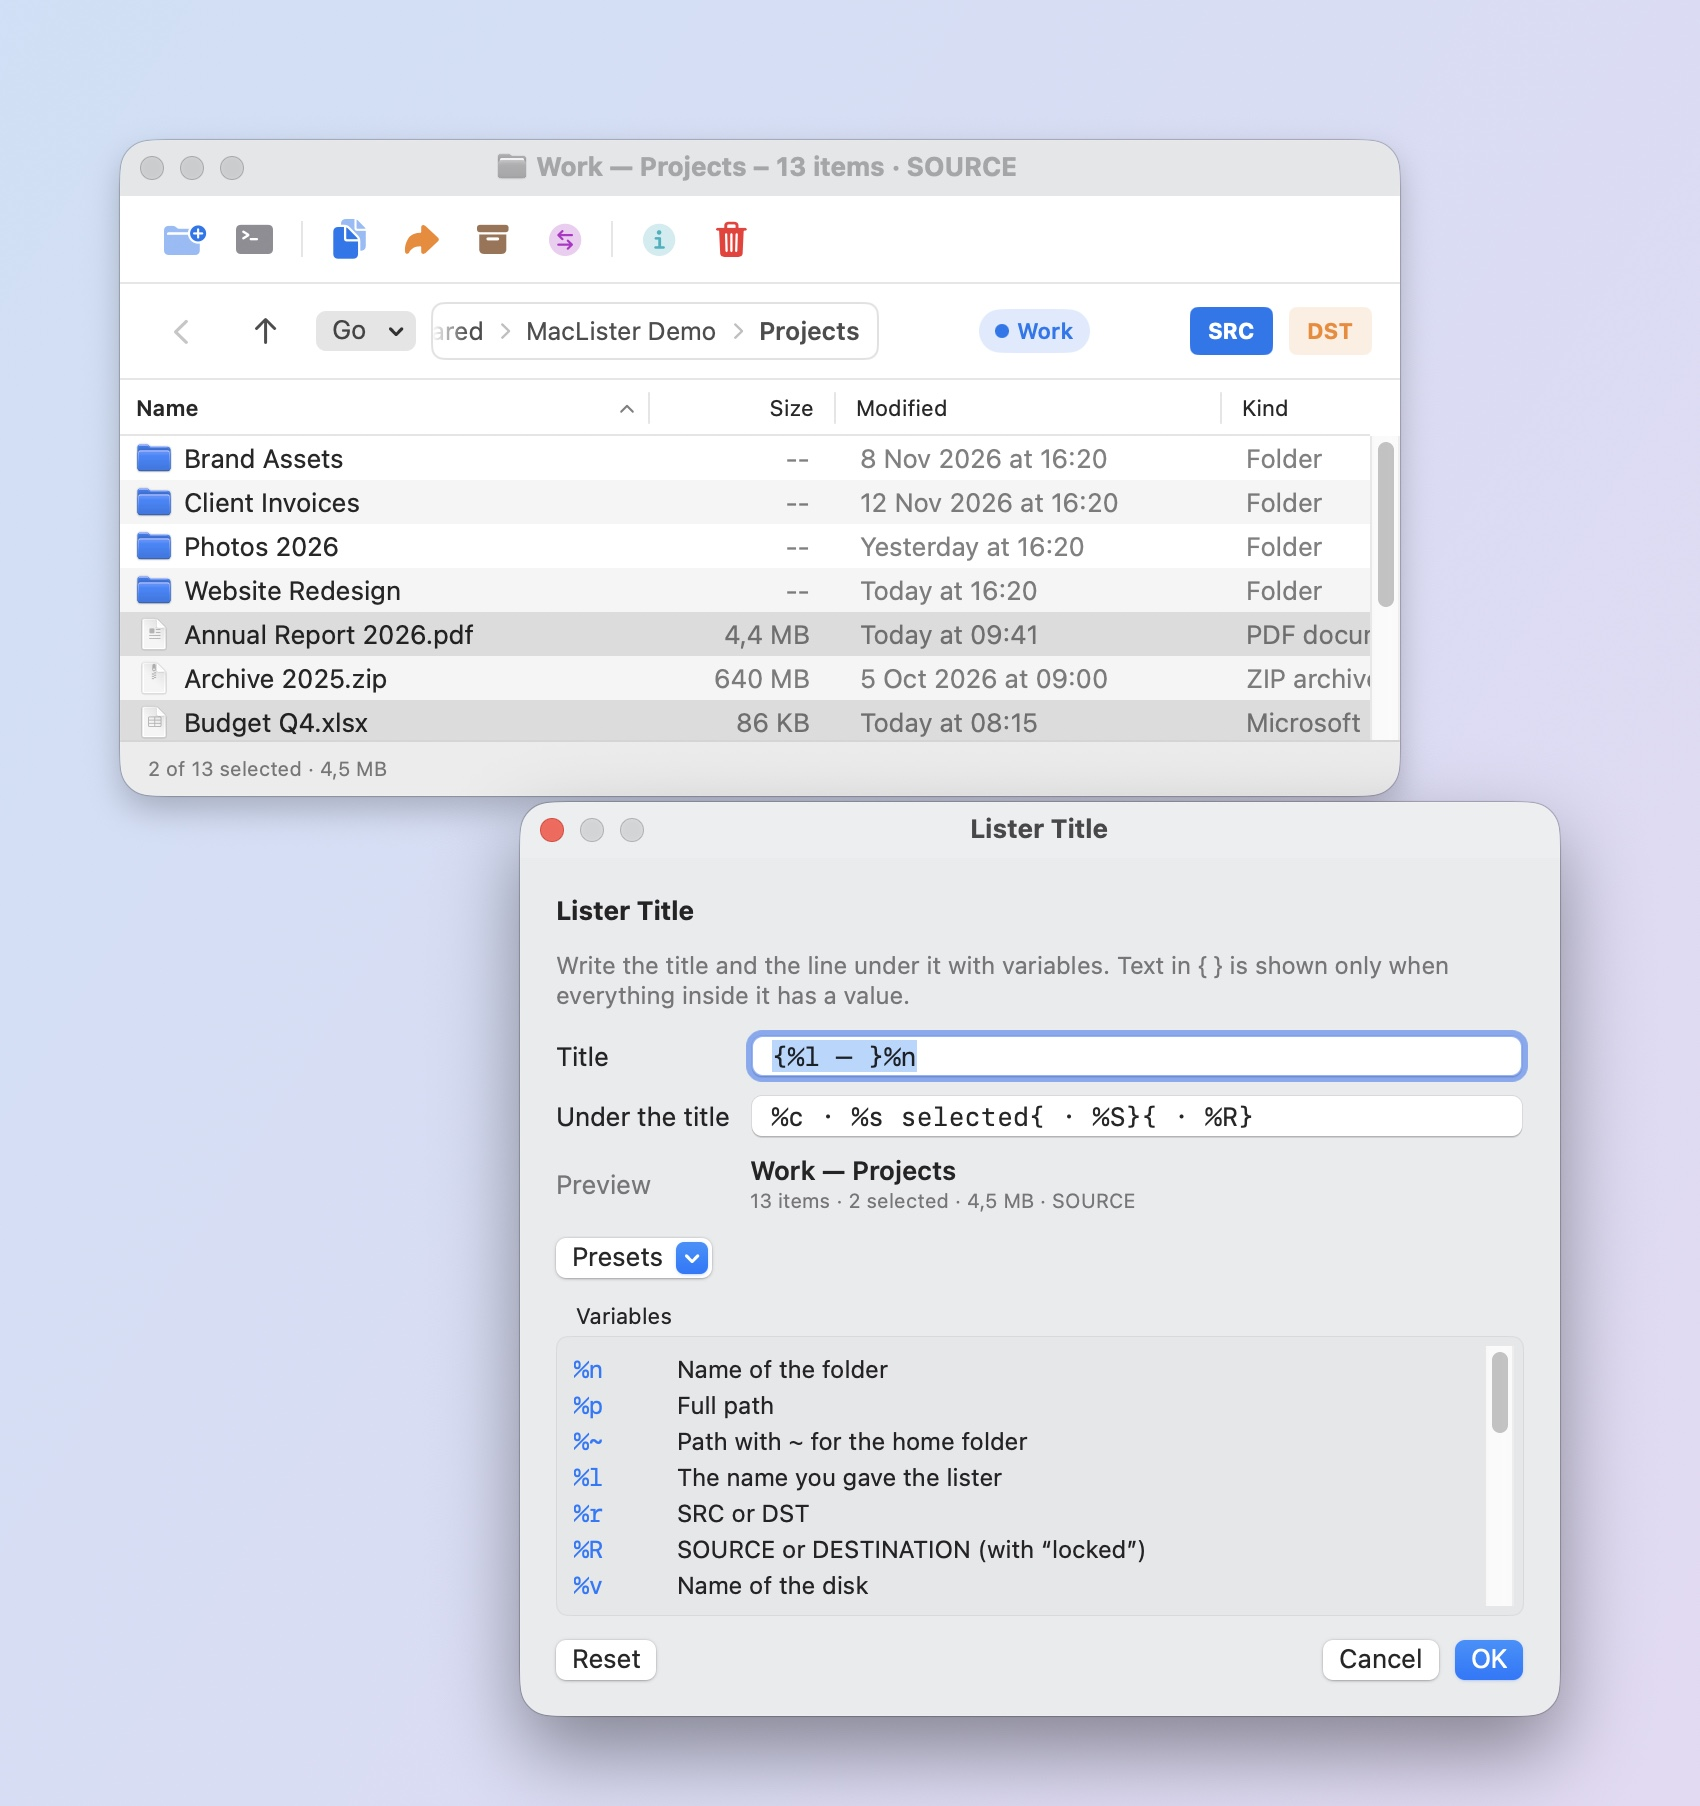
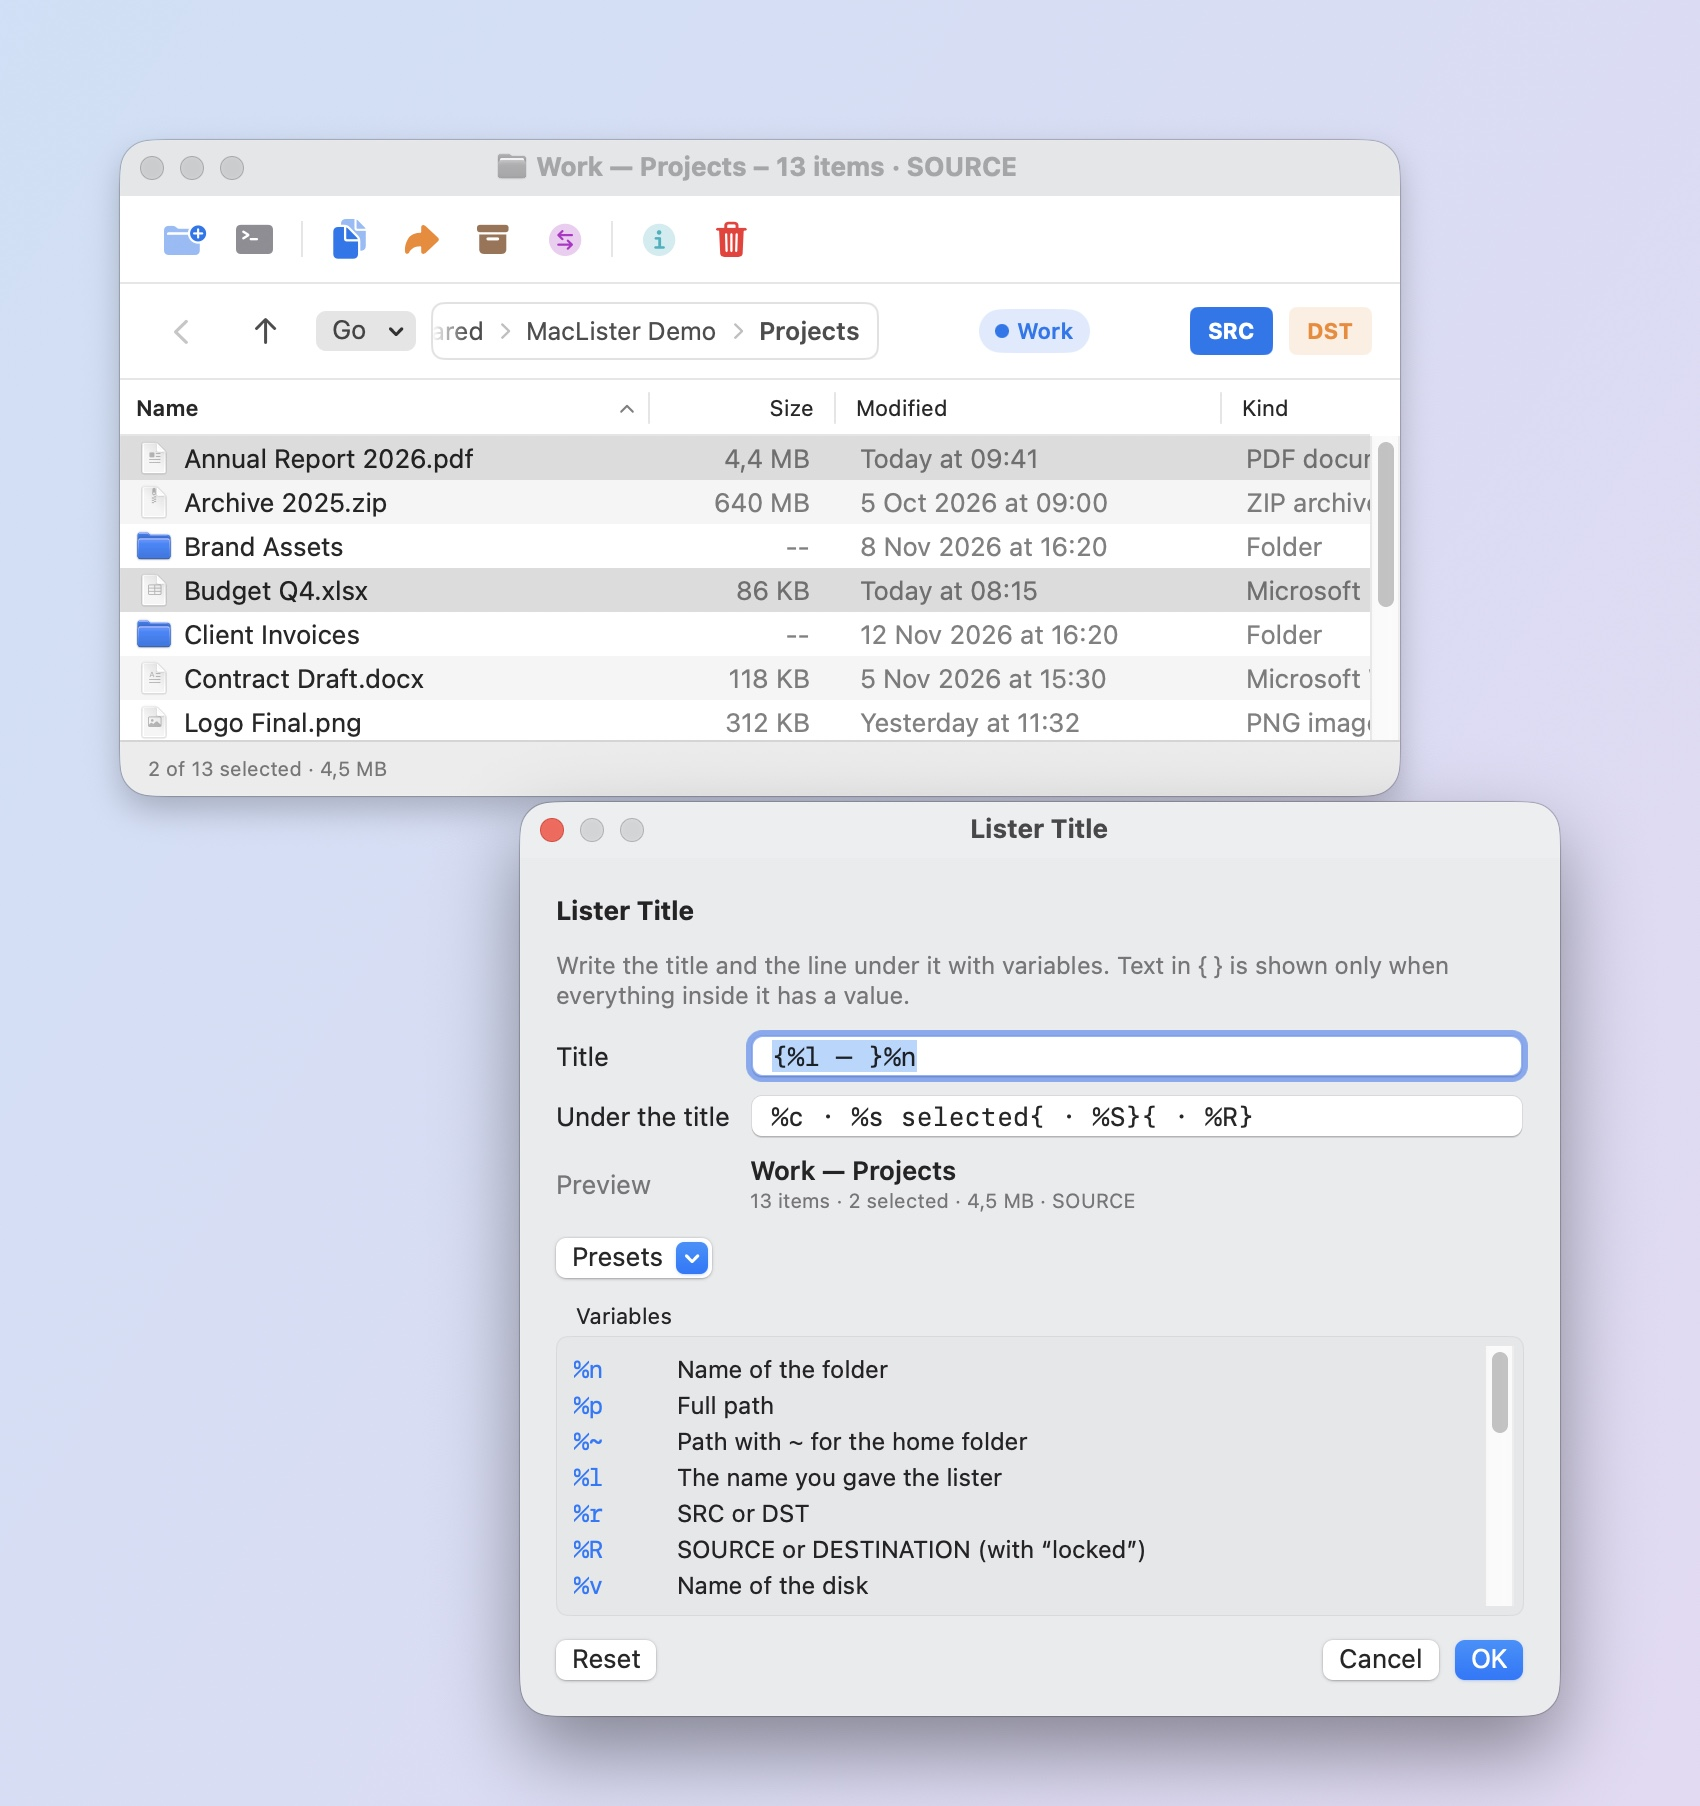
MacLister 1.4.1: sort folders and files together (optional)
- Settings → Listers → "Keep folders above files when sorting" (also in the column header menu); on by default
- With it off, folders and files are sorted together by the chosen column
- Refreshed screenshots; README in both languages

Changed region(s): [[0.0624, 0.2171, 0.8106, 0.4341]]

diff --git a/Sources/MacLister/SelfTestOperations.swift b/Sources/MacLister/SelfTestOperations.swift
@@ -180,6 +180,26 @@ enum SelfTestOperations {
             check(false, "app delegate reachable")
         }
 
+        // --- sorting folders and files together
+        let sortDir = root.appendingPathComponent("S")
+        for folder in ["b_dir", "d_dir"] { try? fm.createDirectory(at: sortDir.appendingPathComponent(folder), withIntermediateDirectories: true) }
+        write("a.txt", "x", in: sortDir); write("c.txt", "xxxxxx", in: sortDir); write("e.txt", "xx", in: sortDir)
+        let sortModel = ListerModel(url: sortDir)
+        func order(_ first: Bool, _ key: ListerModel.SortKey = .name, ascending: Bool = true) -> [String] {
+            ListerModel.sorted(sortModel.items, by: key, ascending: ascending, foldersFirst: first).map(\.name)
+        }
+        check(order(true) == ["b_dir", "d_dir", "a.txt", "c.txt", "e.txt"], "folders first (the default): \(order(true))")
+        check(order(false) == ["a.txt", "b_dir", "c.txt", "d_dir", "e.txt"], "folders and files sorted together by name: \(order(false))")
+        check(order(false, .name, ascending: false) == ["e.txt", "d_dir", "c.txt", "b_dir", "a.txt"], "and in reverse: \(order(false, .name, ascending: false))")
+        check(order(true, .size, ascending: false).prefix(2).allSatisfy { $0.hasSuffix("_dir") }, "folders stay on top when sorting by size")
+        check(order(false, .size, ascending: false).first == "c.txt", "mixed by size, the biggest file leads: \(order(false, .size, ascending: false))")
+        UserDefaults.standard.set(false, forKey: "foldersFirst")
+        sortModel.reload()
+        check(sortModel.items.map(\.name) == ["a.txt", "b_dir", "c.txt", "d_dir", "e.txt"], "the setting changes the lister's own order: \(sortModel.items.map(\.name))")
+        UserDefaults.standard.set(true, forKey: "foldersFirst")
+        sortModel.reload()
+        check(sortModel.items.map(\.name).prefix(2) == ["b_dir", "d_dir"], "and back")
+
         // --- title format
         var ctx = TitleFormat.Context()
         ctx.name = "Reports"; ctx.items = "11 items"; ctx.diskSummary = "340 GB free"; ctx.folders = "3"; ctx.files = "8"; ctx.selected = "2"

diff --git a/Sources/MacLister/SettingsWindow.swift b/Sources/MacLister/SettingsWindow.swift
@@ -89,6 +89,7 @@ private struct ListersSettingsView: View {
     @AppStorage("buttonBarPosition") private var position = ButtonBarPosition.abovePath.rawValue
     @AppStorage("showButtonLabels") private var labels = false
     @AppStorage("relativeDates") private var relativeDates = true
+    @AppStorage("foldersFirst") private var foldersFirst = true
     @AppStorage("dragSelectFromNames") private var dragSelect = true
     @State private var confirmReset = false
 
@@ -108,6 +109,8 @@ private struct ListersSettingsView: View {
                 }
             }
             Section("File list") {
+                Toggle("Keep folders above files when sorting", isOn: $foldersFirst)
+                    .onChange(of: foldersFirst) { _ in NotificationCenter.default.post(name: .columnsChanged, object: nil) }
                 Toggle("Show dates as Today and Yesterday", isOn: $relativeDates)
                     .onChange(of: relativeDates) { _ in NotificationCenter.default.post(name: .columnsChanged, object: nil) }
                 Toggle("Select by dragging from file names", isOn: $dragSelect)

diff --git a/Sources/MacLister/ListerViewController.swift b/Sources/MacLister/ListerViewController.swift
@@ -1303,6 +1303,10 @@ extension ListerViewController {
             menu.addItem(item)
         }
         menu.addItem(.separator())
+        let folders = NSMenuItem(title: tr("Folders Above Files"), action: #selector(toggleFoldersFirst), keyEquivalent: "")
+        folders.target = self
+        folders.state = Settings.foldersFirst ? .on : .off
+        menu.addItem(folders)
         let relative = NSMenuItem(title: tr("Relative Dates (Today, Yesterday)"), action: #selector(toggleRelativeDates), keyEquivalent: "")
         relative.target = self
         relative.state = Settings.relativeDates ? .on : .off
@@ -1318,6 +1322,11 @@ extension ListerViewController {
     }
 
     @objc fileprivate func resetColumns() { ColumnSettings.reset() }
+
+    @objc fileprivate func toggleFoldersFirst() {
+        Settings.foldersFirst.toggle()
+        NotificationCenter.default.post(name: .columnsChanged, object: nil)
+    }
 
     @objc fileprivate func toggleRelativeDates() {
         Settings.relativeDates.toggle()

diff --git a/Sources/MacLister/ListerModel.swift b/Sources/MacLister/ListerModel.swift
@@ -448,10 +448,10 @@ final class ListerModel: ObservableObject {
         return listed.filter { $0.isNavigable || NamePattern.matches($0.name, patterns: patterns) }
     }
 
-    /// Folders always come first; inside each group the chosen column decides.
-    static func sorted(_ items: [FileItem], by key: SortKey, ascending: Bool) -> [FileItem] {
+    /// Folders come first (unless the setting is off); inside each group, or among everything, the chosen column decides.
+    static func sorted(_ items: [FileItem], by key: SortKey, ascending: Bool, foldersFirst: Bool = Settings.foldersFirst) -> [FileItem] {
         items.sorted { a, b in
-            if a.isNavigable != b.isNavigable { return a.isNavigable }
+            if foldersFirst, a.isNavigable != b.isNavigable { return a.isNavigable }
             let order: ComparisonResult
             switch key {
             case .name:

diff --git a/Sources/MacLister/Settings.swift b/Sources/MacLister/Settings.swift
@@ -59,6 +59,7 @@ enum Settings {
             "dragSelectFromNames": true,
             "showDockIcon": true,
             "listersOnAllDesktops": false,
+            "foldersFirst": true,
         ])
     }
 
@@ -143,6 +144,12 @@ enum Settings {
     static var listersOnAllDesktops: Bool {
         get { defaults.bool(forKey: "listersOnAllDesktops") }
         set { defaults.set(newValue, forKey: "listersOnAllDesktops") }
+    }
+
+    /// Folders stay above the files whatever the sort column is. Off: folders and files are sorted together.
+    static var foldersFirst: Bool {
+        get { defaults.bool(forKey: "foldersFirst") }
+        set { defaults.set(newValue, forKey: "foldersFirst") }
     }
 
     static var showStatusItem: Bool { defaults.bool(forKey: "showStatusItem") }

diff --git a/README.pl.md b/README.pl.md
@@ -82,8 +82,8 @@ wykonaj `defaults delete com.example.MacLister` i usuń MacLister z dwóch list 
 - **Pasek ścieżki:** *Back*, *Parent*, menu **Go** (miejsca, woluminy, zakładki, ostatnie foldery), ścieżka jako
   klikalny **breadcrumb** (kliknij folder, żeby tam przejść; kliknij puste miejsce paska albo naciśnij **⌘L**, żeby
   wpisać ścieżkę, `~` działa) oraz znaczki **SRC** / **DST**.
-- **Lista plików:** ikona, nazwa, rozmiar, data modyfikacji. Kliknięcie nagłówka sortuje; foldery zawsze są
-  na początku. Dwuklik lub Return otwiera plik albo wchodzi do folderu. **Prawy przycisk na nagłówku kolumn**
+- **Lista plików:** ikona, nazwa, rozmiar, data modyfikacji. Kliknięcie nagłówka sortuje; foldery domyślnie są
+  na początku (wyłączysz to w **Ustawienia → Listery → Foldery nad plikami przy sortowaniu** albo w menu nagłówka kolumn). Dwuklik lub Return otwiera plik albo wchodzi do folderu. **Prawy przycisk na nagłówku kolumn**
   wybiera kolumny: Size, Modified, Created, Kind, Extension, Permissions, Tags, Comment.
 - **Lista odświeża się sama**, gdy pliki są dodawane, usuwane lub zmieniane na dysku (FSEvents), a podtytuł okna
   pokazuje wolne miejsce na woluminie.
@@ -184,7 +184,7 @@ W wielu laptopach klawisze F wymagają **fn**.
 - **Ogólne** — co otwiera lister (dwuklik, środkowy przycisk albo oba), wyśrodkowanie na kursorze, folder, który się
   otwiera, otwieranie zapisanego układu przy starcie, listery na wszystkich pulpitach, ikona w Docku, aplikacja
   terminala dla *Terminal Here*, język interfejsu.
-- **Listery** — położenie paska przycisków i etykiety, **Edit Buttons…** / *Wczytaj ponownie* / *Przywróć…*, daty
+- **Listery** — położenie paska przycisków i etykiety, foldery nad plikami, **Edit Buttons…** / *Wczytaj ponownie* / *Przywróć…*, daty
   względne, zaznaczanie przeciąganiem od nazw plików, **Tytuł listera…**, **Keyboard Shortcuts…**, **Edit Filetypes…**.
 - **Operacje** — jak długo przechowywany jest dziennik operacji, **Otwórz dziennik operacji…** oraz **Wyczyść ostatnie
   foldery…** / **Wyczyść dziennik operacji…** (każde najpierw prosi o potwierdzenie).

diff --git a/README.md b/README.md
@@ -79,7 +79,7 @@ run `defaults delete com.example.MacLister`, and remove MacLister from the two P
 - **Path bar:** *Back*, *Parent*, the **Go** menu (places, volumes, bookmarks, recent folders), the path as a
   clickable **breadcrumb** (click a folder to jump there; click the empty part of the bar or press **⌘L** to
   type a path instead, `~` works) and the **SRC** / **DST** badges.
-- **File list:** icon, name, size, modified date. Click a header to sort; folders always come first.
+- **File list:** icon, name, size, modified date. Click a header to sort; folders come first by default, or switch *Keep folders above files when sorting* off (Settings → Listers, or the column header menu) to sort folders and files together.
   Double-click or Return opens a file or enters a folder. **Right-click the column header** to choose the
   columns: Size, Modified, Created, Kind, Extension, Permissions, Tags, Comment.
 - **The list refreshes itself** when files are added, removed or changed on disk (FSEvents), and the window
@@ -181,7 +181,7 @@ On many laptops F-keys need **fn**.
 - **General** — what opens a lister (double-click, middle button or both), centre it on the pointer, the folder it
   opens, reopen the saved layout at launch, listers on all desktops, the Dock icon, the terminal app for
   *Terminal Here*, the interface language.
-- **Listers** — button bar position and labels, **Edit Buttons…** / *Reload* / *Reset…*, relative dates,
+- **Listers** — button bar position and labels, folders above files, **Edit Buttons…** / *Reload* / *Reset…*, relative dates,
   drag-select from file names, **Lister Title…**, **Keyboard Shortcuts…**, **Edit Filetypes…**.
 - **Operations** — how long the operation log is kept, **Open Operation Log…**, and **Clear Recent Folders…** /
   **Clear Operation Log…** (each asks for confirmation first).
